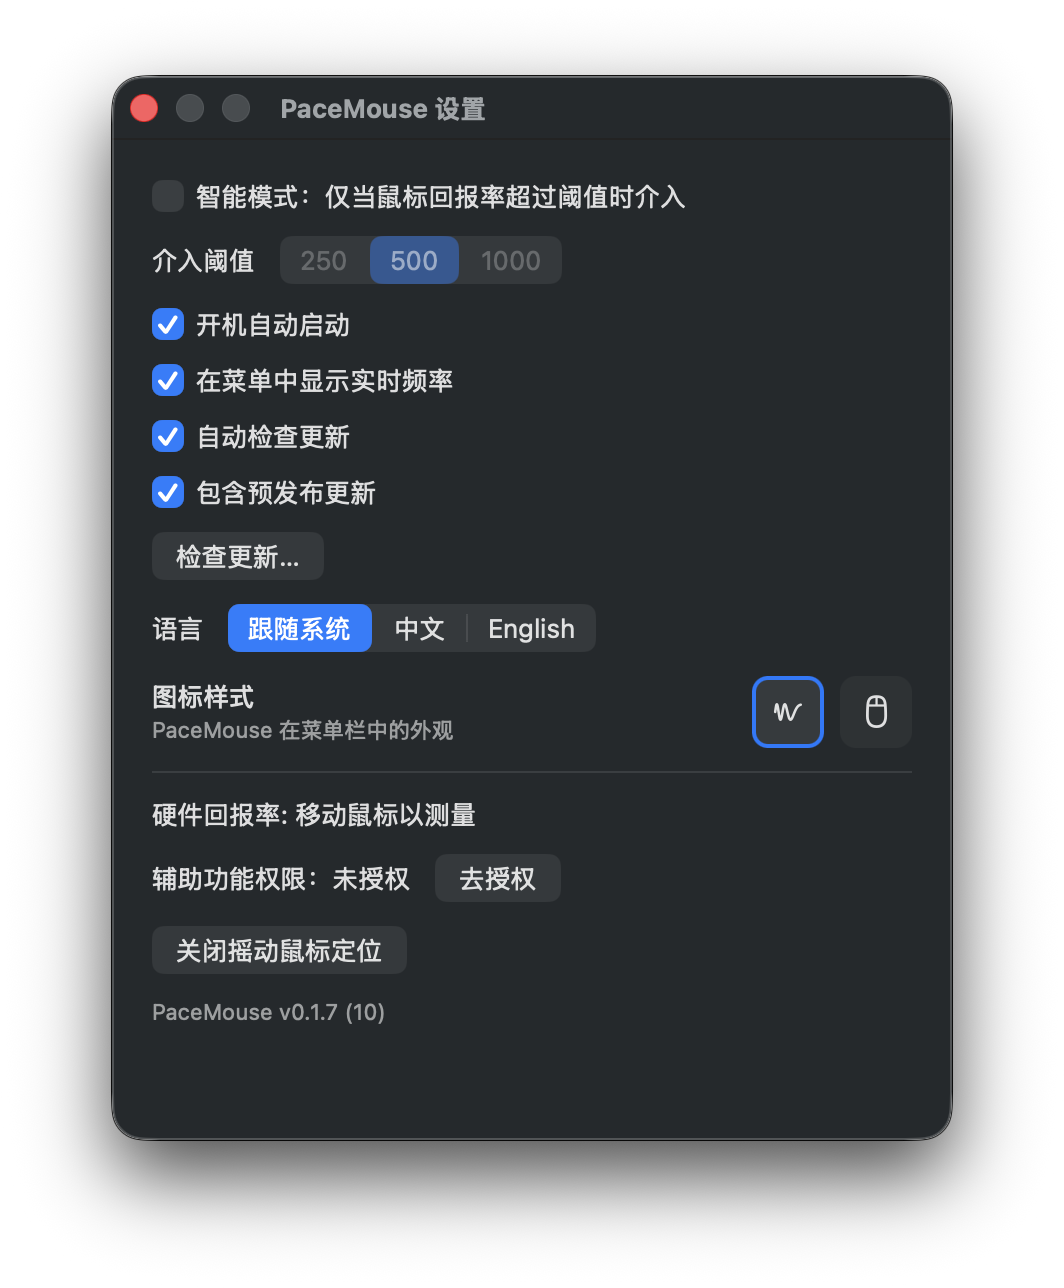
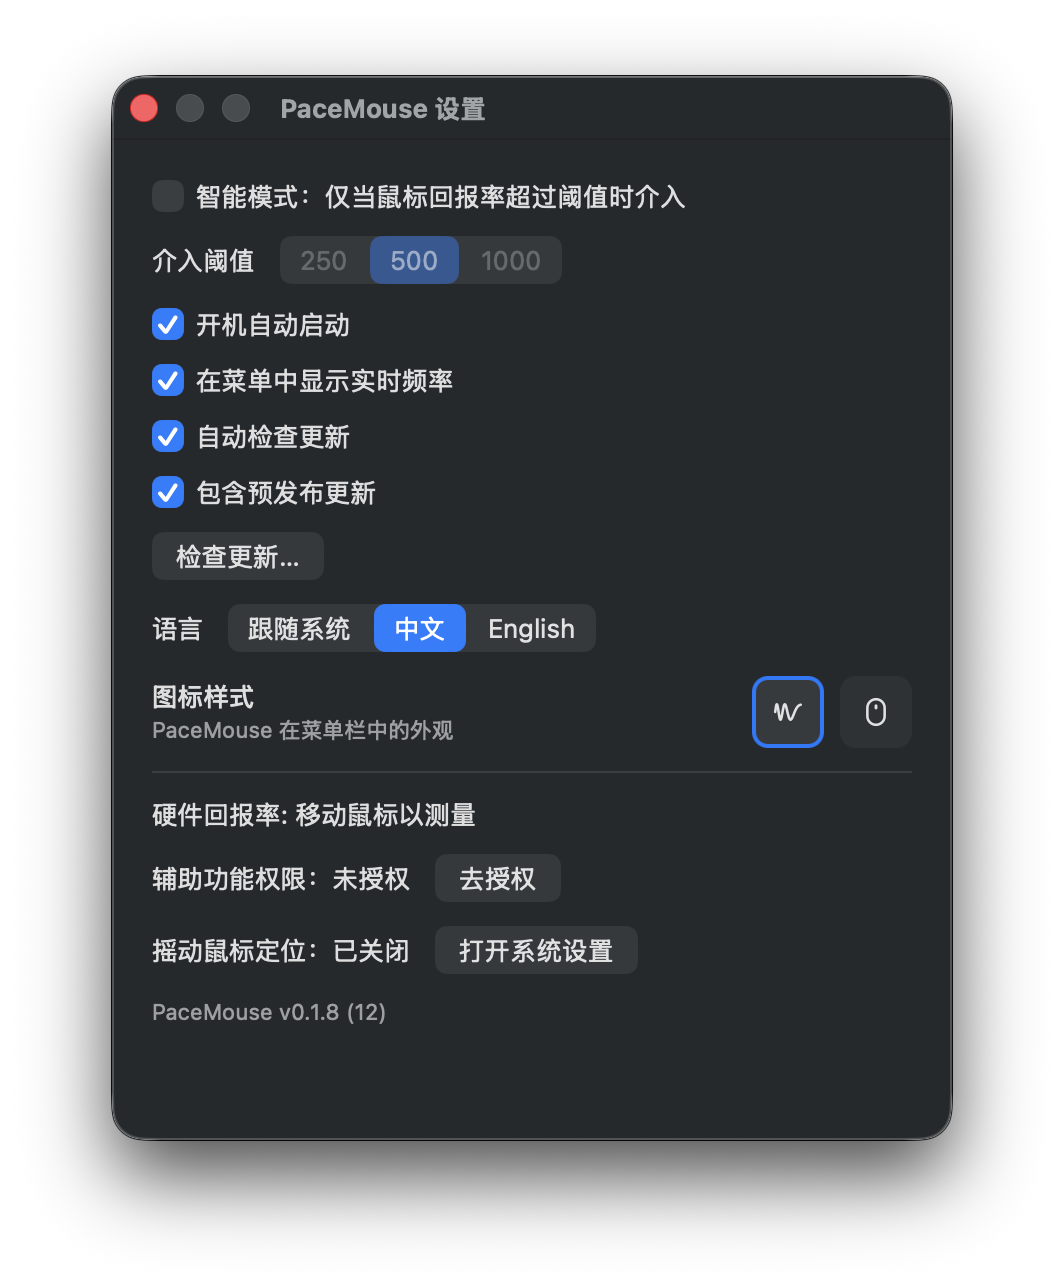
chore: bump marketing version to 0.1.9 and build number to 13; enhance Shake to Locate feature with user prompts and settings integration

diff --git a/Sources/PaceMouse/AppDelegate.swift b/Sources/PaceMouse/AppDelegate.swift
@@ -51,8 +51,7 @@ final class AppDelegate: NSObject, NSApplicationDelegate {
             self?.guidePermission()
         }
         settingsWindow.onOpenShakeSettings = {
-            guard let url = URL(string: "x-apple.systempreferences:com.apple.preference.universalaccess?Seeing_Display") else { return }
-            NSWorkspace.shared.open(url)
+            ShakeToLocate.openSystemSettings()
         }
         settingsWindow.isAutoCheckEnabled = { [weak self] in
             self?.updater.automaticallyChecksForUpdates ?? true
@@ -92,7 +91,7 @@ final class AppDelegate: NSObject, NSApplicationDelegate {
 
     private func promptOnLaunch() {
         if Permissions.isAccessibilityTrusted {
-            maybePromptLogin()
+            maybePromptShake()
             return
         }
         NSApp.activate(ignoringOtherApps: true)
@@ -102,6 +101,29 @@ final class AppDelegate: NSObject, NSApplicationDelegate {
             settings.permissionPromptShown = true
             Permissions.requestAccessibilityPrompt()
         }
+    }
+
+    private func maybePromptShake() {
+        guard !settings.shakePromptShown else {
+            maybePromptLogin()
+            return
+        }
+        settings.shakePromptShown = true
+        guard ShakeToLocate.isEnabled else {
+            maybePromptLogin()
+            return
+        }
+        NSApp.activate(ignoringOtherApps: true)
+        let alert = NSAlert()
+        alert.messageText = tr("Turn off Shake to Locate?")
+        alert.informativeText = tr("Shaking to enlarge the pointer can interfere with high-rate mice. You can change this later in Settings.")
+        alert.addButton(withTitle: tr("Turn Off…"))
+        alert.addButton(withTitle: tr("Not Now"))
+        if alert.runModal() == .alertFirstButtonReturn {
+            ShakeToLocate.openSystemSettings()
+        }
+        settingsWindow.refresh()
+        maybePromptLogin()
     }
 
     private func maybePromptLogin() {
@@ -204,6 +226,6 @@ final class AppDelegate: NSObject, NSApplicationDelegate {
         guard trusted != lastTrusted else { return }
         lastTrusted = trusted
         apply()
-        if trusted { maybePromptLogin() }
+        if trusted { maybePromptShake() }
     }
 }

diff --git a/Sources/PaceMouse/SettingsWindowController.swift b/Sources/PaceMouse/SettingsWindowController.swift
@@ -123,7 +123,7 @@ final class SettingsWindowController: NSWindowController {
         let trusted = Permissions.isAccessibilityTrusted
         permissionLabel.stringValue = trusted ? tr("Accessibility: Granted") : tr("Accessibility: Not Granted")
         permissionButton.title = trusted ? tr("Open System Settings") : tr("Grant…")
-        let shakeOn = Self.isShakeToLocateEnabled()
+        let shakeOn = ShakeToLocate.isEnabled
         shakeLabel.stringValue = shakeOn ? tr("Shake to Locate: On") : tr("Shake to Locate: Off")
         shakeButton.title = shakeOn ? tr("Turn Off…") : tr("Open System Settings")
         versionLabel.stringValue = tr("PaceMouse v%@", AppVersion.display)
@@ -332,16 +332,6 @@ final class SettingsWindowController: NSWindowController {
     @objc private func permissionClicked() { onRequestPermission?() }
 
     @objc private func shakeClicked() { onOpenShakeSettings?() }
-
-    private static func isShakeToLocateEnabled() -> Bool {
-        let key = "CGDisableCursorLocationMagnification" as CFString
-        guard let value = CFPreferencesCopyAppValue(key, kCFPreferencesAnyApplication) else {
-            return true
-        }
-        if let flag = value as? Bool { return !flag }
-        if let number = value as? NSNumber { return !number.boolValue }
-        return true
-    }
 }
 
 extension SettingsWindowController: NSWindowDelegate {

diff --git a/Sources/PaceMouse/ShakeToLocate.swift b/Sources/PaceMouse/ShakeToLocate.swift
@@ -1,0 +1,18 @@
+import AppKit
+
+enum ShakeToLocate {
+    static var isEnabled: Bool {
+        let key = "CGDisableCursorLocationMagnification" as CFString
+        guard let value = CFPreferencesCopyAppValue(key, kCFPreferencesAnyApplication) else {
+            return true
+        }
+        if let flag = value as? Bool { return !flag }
+        if let number = value as? NSNumber { return !number.boolValue }
+        return true
+    }
+
+    static func openSystemSettings() {
+        guard let url = URL(string: "x-apple.systempreferences:com.apple.preference.universalaccess?Seeing_Display") else { return }
+        NSWorkspace.shared.open(url)
+    }
+}

diff --git a/Sources/PaceMouse/SettingsStore.swift b/Sources/PaceMouse/SettingsStore.swift
@@ -30,6 +30,11 @@ final class SettingsStore {
         set { defaults.set(newValue, forKey: "loginPromptShown") }
     }
 
+    var shakePromptShown: Bool {
+        get { defaults.bool(forKey: "shakePromptShown") }
+        set { defaults.set(newValue, forKey: "shakePromptShown") }
+    }
+
     var language: String {
         get { defaults.string(forKey: "language") ?? "system" }
         set { defaults.set(newValue, forKey: "language"); onChange?() }

diff --git a/AGENTS.md b/AGENTS.md
@@ -36,7 +36,7 @@ macOS 菜单栏工具：对高回报率（>500 Hz）鼠标的 move / drag 事件
 │                    菜单栏 NSPopover（开关/频率/更新提示）、设置窗、智能模式、本地化；不实现节流算法
 │                    UpdateController —— Sparkle（自动/手动检查；静默发现后 Popover 项+图标提示，安装需确认）
 ├─ L1 Control        SettingsStore（UserDefaults：enabled、targetHz、autoMode、autoThreshold、
-│                    language、menuBarIcon、showLiveStats、includePreReleaseUpdates、permission/login prompt 标记）
+│                    language、menuBarIcon、showLiveStats、includePreReleaseUpdates、permission/shake/login prompt 标记）
 │                    自动检查更新开关走 Sparkle `automaticallyChecksForUpdates`（默认开）
 │                    预发布更新：`includePreReleaseUpdates`（默认开）→ Sparkle `allowedChannels(["pre-release"])`
 ├─ L2 Core           ThrottleCore —— 位移累加器与统计（纯逻辑，可单测）
